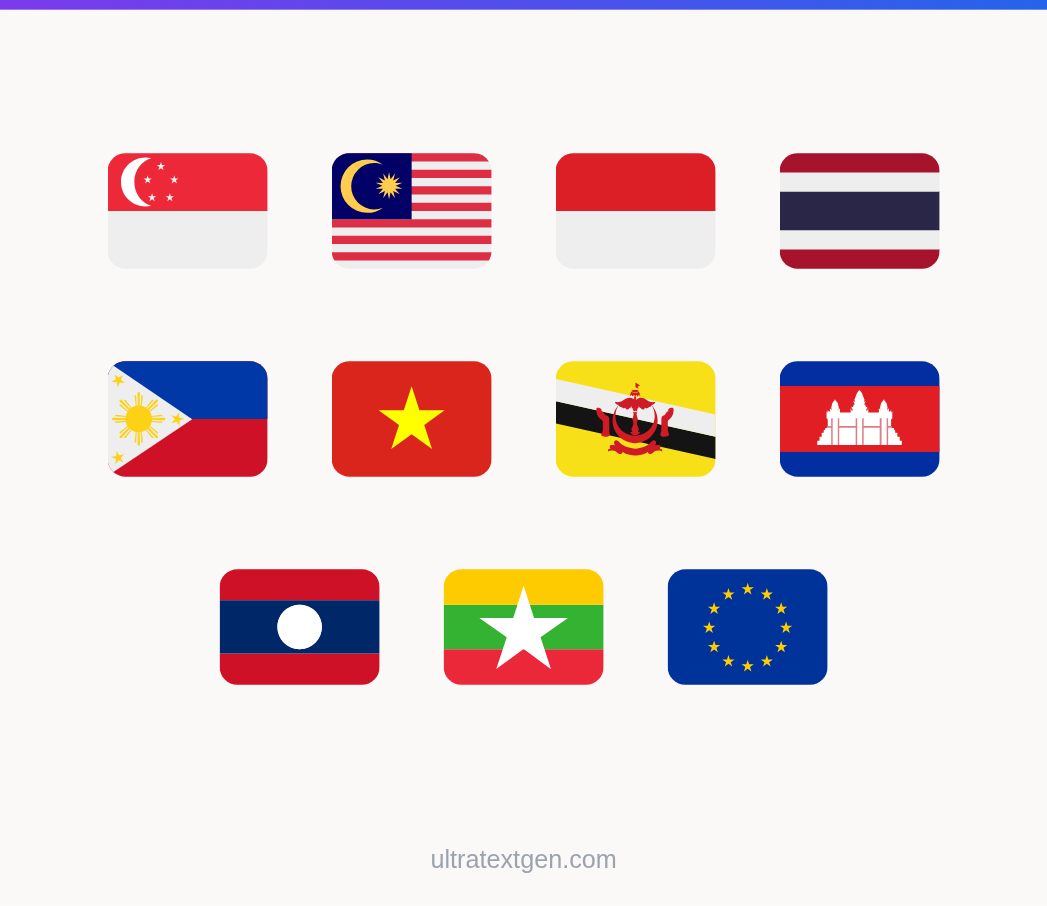
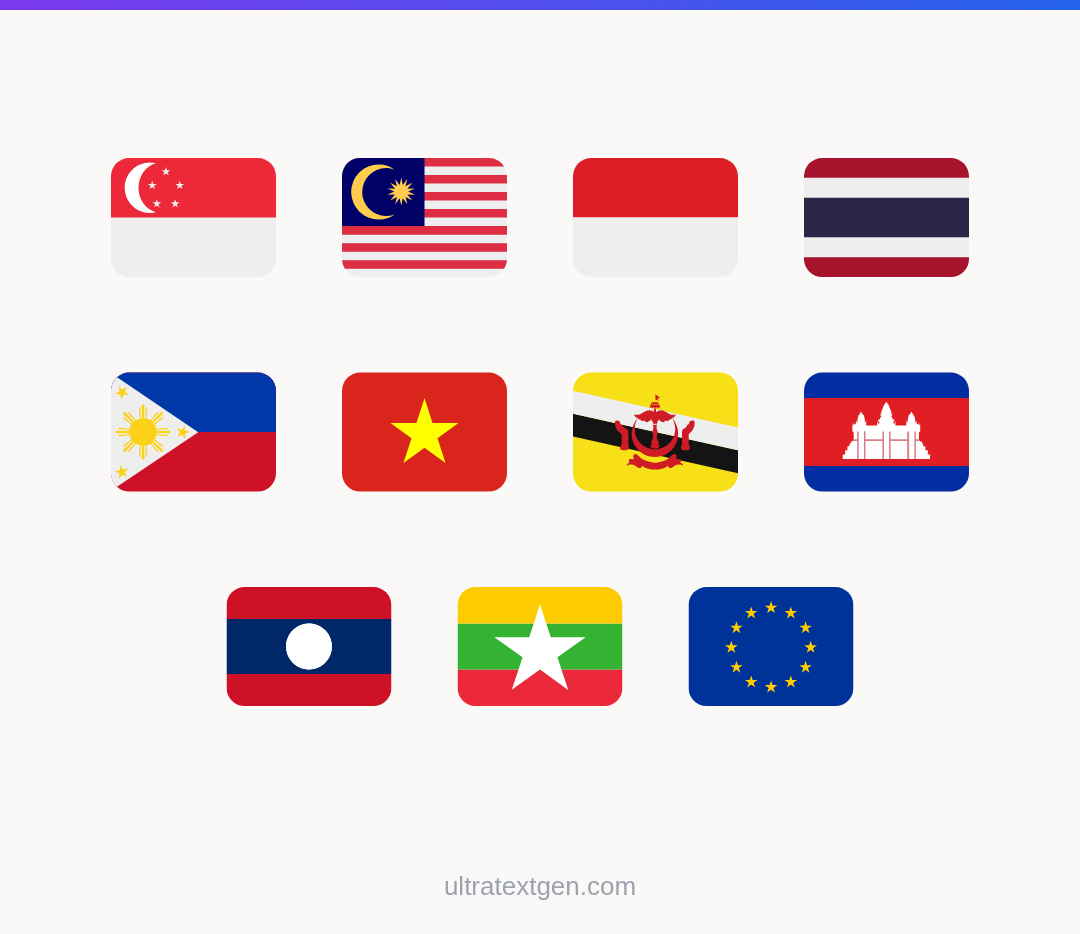
fix(library): selection image, second review pass
- The 160px glyph cap applies only to colour-emoji text and has no half-size
  floor, so one emoji is crisp (480px card) while kaomoji, symbols and
  Twemoji SVGs keep full size; attribution stays ~20px on small cards.
- Each Twemoji picture races a 1.5s timeout, so a stalled CDN cannot leave
  Share stuck on "Making image…".
- Cancel during a render returns quietly (no render_failed row, no stale
  status), and a new session starts with a clean status line.
- The debounced render's rejection is handled.
- Wide items (kaomoji, combos) get a full-em gap so each reads as one item.
- Evidence images refreshed.

Claude-Session: https://claude.ai/code/session_012mYjBdXV8HpcsrksS3GFGW

diff --git a/js/share/share-core.js b/js/share/share-core.js
@@ -490,9 +490,11 @@
   /* Colour emoji fonts are bitmaps: Apple's largest strike is 160px, Noto's
      136px. Drawn bigger they are upscaled and go soft (an audit caught a
      single emoji at 360px rendering visibly blurred). So the card is laid out
-     at a 1080px reference width and then the whole canvas is scaled down
-     until no glyph is drawn above GLYPH_CAP, never below half size: a single
-     emoji ships as a crisp ~540px square instead of a blurred 1080px one. */
+     at a 1080px reference width and, when it holds colour-emoji text, the
+     whole canvas is scaled down until no glyph is drawn above GLYPH_CAP: a
+     single emoji ships as a crisp ~480px card instead of a blurred 1080px
+     one. Vector text (a kaomoji, a symbol) and picture glyphs (Twemoji SVG)
+     scale cleanly and keep the full size. */
   const GLYPH_CAP = 160;
 
   //   items: array of strings, in the order the visitor chose them
@@ -523,7 +525,11 @@
     const widths = list.map((v) => (imageOf(v) ? 1 : ctx.measureText(v).width / BASE));
     const maxW = REF - PAD * 2;
     const maxH = REF - PAD * 2 - CRED_BAND;
-    const lay = UTG.layoutSelection(widths, { maxW: maxW, maxH: maxH, maxFont: list.length === 1 ? 360 : 300 });
+    // Expressions wider than a glyph (kaomoji, combos) carry their own inner
+    // spaces, so the gap between two of them must be clearly wider than any
+    // gap inside one, or "(¬_¬) (￣ヘ￣)" reads as a single string.
+    const wide = widths.some((w) => w > 1.6);
+    const lay = UTG.layoutSelection(widths, { maxW: maxW, maxH: maxH, gapEm: wide ? 1 : 0.4, maxFont: list.length === 1 ? 360 : 300 });
     const f = lay.fontSize;
     const lineH = f * lay.lineEm;
     const gapPx = f * lay.gapEm;
@@ -532,7 +538,8 @@
     // Height follows the content: a row of three emoji is a wide card, not a
     // square that is three-quarters blank. Square is the ceiling.
     const refH = Math.min(REF, Math.max(MIN_H, Math.ceil(blockH + PAD * 2 + CRED_BAND)));
-    const k = Math.max(0.5, Math.min(1, GLYPH_CAP / Math.max(f, 1)));
+    const bitmapEmoji = list.some((v) => !imageOf(v) && /\p{Extended_Pictographic}|\p{Regional_Indicator}/u.test(v));
+    const k = bitmapEmoji ? Math.min(1, GLYPH_CAP / Math.max(f, 1)) : 1;
     canvas.width = Math.round(REF * k);
     canvas.height = Math.round(refH * k);
     ctx.scale(k, k);
@@ -569,7 +576,9 @@
     });
 
     // Attribution: one small, quiet line. Never the page or section name.
-    ctx.font = "26px -apple-system, BlinkMacSystemFont, \"Segoe UI\", Roboto, \"Noto Sans\", sans-serif";
+    // Sized in reference units, so it stays about 20px on a scaled-down card.
+    const credPx = Math.max(26, Math.round(20 / k));
+    ctx.font = credPx + "px -apple-system, BlinkMacSystemFont, \"Segoe UI\", Roboto, \"Noto Sans\", sans-serif";
     ctx.fillStyle = "#9ca3af";
     ctx.textAlign = "center";
     ctx.fillText("ultratextgen.com", REF / 2, refH - 46);

diff --git a/js/share/image-selection.js b/js/share/image-selection.js
@@ -1173,7 +1173,9 @@
 
   function scheduleRender() {
     clearTimeout(renderTimer);
-    renderTimer = setTimeout(() => { makeRender(); }, 120);
+    renderTimer = setTimeout(() => {
+      makeRender().catch(() => { if (active) say(t("renderFailed")); });
+    }, 120);
   }
 
   /* Pages that show their emoji as Twemoji pictures (the flags pages) get
@@ -1198,9 +1200,13 @@
     if (!artCache[url]) {
       artCache[url] = new Promise((resolve) => {
         const img = new Image();
+        // A stalled request (slow CDN, a blocker that hangs rather than
+        // fails) must not hold the image up: after 1.5s the device glyph is
+        // used, and a Share tap is not left waiting on the network.
+        const timer = setTimeout(() => { delete artCache[url]; resolve(null); }, 1500);
         img.crossOrigin = "anonymous";
-        img.onload = () => resolve(img);
-        img.onerror = () => resolve(null);
+        img.onload = () => { clearTimeout(timer); resolve(img); };
+        img.onerror = () => { clearTimeout(timer); resolve(null); };
         img.src = url;
       });
     }
@@ -1292,6 +1298,7 @@
     } catch (err) {
       r = null;
     }
+    if (!active) { busy = false; return; } // Cancel pressed while rendering
     if (!r) {
       busy = false;
       say(t("renderFailed"));
@@ -1459,6 +1466,7 @@
     document.documentElement.classList.add("utg-image-selecting");
     if (!tray) buildTray();
     tray.hidden = false;
+    say(""); // nothing from a previous session carries over
     paintAllTiles();
     addCollectionButtons();
     paint();

diff --git a/docs/architecture/copy-share-save.md b/docs/architecture/copy-share-save.md
@@ -144,8 +144,14 @@ Rules that came out of building and auditing it, each with a test:
   flags. On a page without Twemoji, Windows shows the letters on the page too.
 - **Glyphs are never upscaled past their bitmap.** Colour emoji fonts store bitmaps
   (Apple's largest is 160px, Noto's 136px); drawn larger they blur. The card is laid
-  out at a 1080px reference width and the canvas is scaled so no glyph exceeds
-  160px (never below half size): one emoji ships as a crisp ~540px card.
+  out at a 1080px reference width and, when it holds colour-emoji text, the canvas is
+  scaled so no glyph exceeds 160px: one emoji ships as a crisp 480px card. Vector
+  text (kaomoji, symbols) and Twemoji SVGs scale cleanly and keep full size.
+- **Artwork never holds the image up.** Each Twemoji picture races a 1.5s timeout
+  and falls back to the device glyph, so a stalled CDN or blocker cannot leave Share
+  stuck on "Making image…".
+- **Expressions get room.** When an item is wider than a glyph (a kaomoji, a combo)
+  the gap between items is a full em, wider than any gap inside one.
 - **The card is as tall as its content**, between 1.91:1 and square, so a row of
   three emoji is not a square that is three-quarters blank. Row choice prefers the
   fewest rows within a size-graded share of the largest possible glyph (60% up to
@@ -184,6 +190,10 @@ Screenshots and real exports (downloaded from headless Chromium at 390px, 2x) ar
 preview, ASEAN after "Add all", Arabic RTL, kaomoji text cards, and exports for one
 emoji, a combination across sections, the ASEAN set, the same set on the Twemoji page,
 and the 50-item limit.
+
+A second review pass confirmed the fixes and found three more: a stalled Twemoji
+request could hang the image, Cancel during a render left an error behind, and the
+half-size floor still blurred one emoji. Those are fixed and retested too.
 
 An independent review after the first build found seven medium issues: the empty
 card space, blurred single emoji, the page jumping on Cancel, focus lost when the
